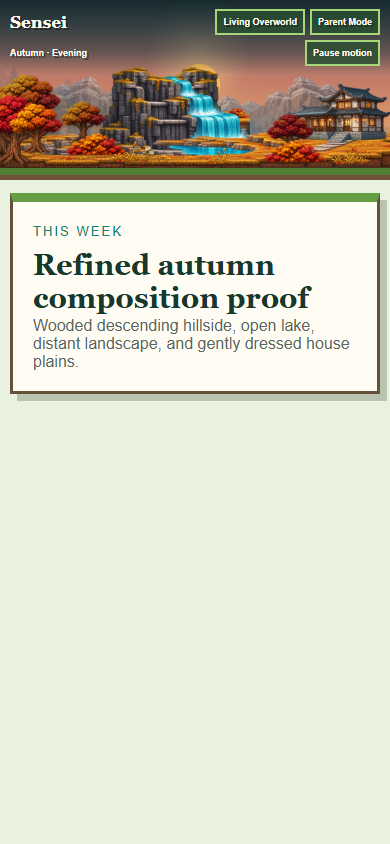
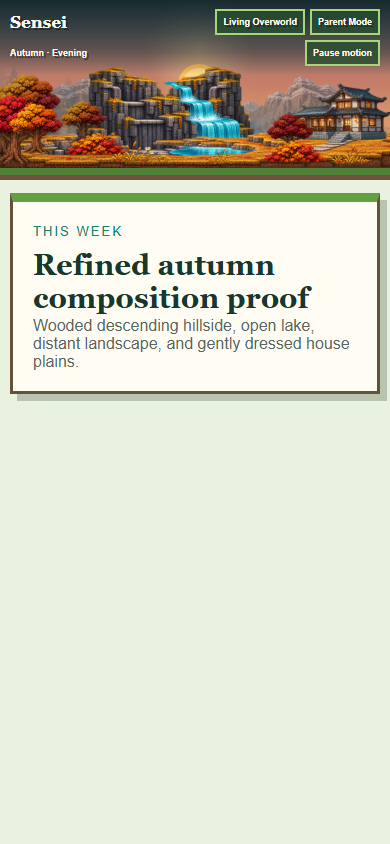
art: assemble final three-asset waterfall proof

Changed region(s): [[0.2154, 0.0616, 0.6462, 0.1848], [0.1231, 0.154, 0.1846, 0.1848]]

diff --git a/docs/prototypes/living-overworld-autumn-rich.html b/docs/prototypes/living-overworld-autumn-rich.html
@@ -19,15 +19,12 @@
     .forest { z-index: 3; left: 43%; bottom: -4px; width: 1260px; translate: -50%; opacity: .5; filter: saturate(.72) brightness(.75); }
     .ground-band { position: absolute; z-index: 3; left: 0; right: 0; bottom: 0; height: 38px; background: linear-gradient(#896329 0 18%, #6f4d2a 19% 34%, #4c351f 35%); }
     .hillside { z-index: 4; left: calc(50% - 1260px); bottom: -12px; width: 920px; }
-    .lake-extension { z-index: 5; bottom: -2px; width: 650px; clip-path: inset(0 0 0 42%); }
-    .lake-extension.bridge { left: calc(50% - 680px); }
-    .lake-extension.main { left: calc(50% - 310px); }
     .waterfall-system { position: absolute; z-index: 6; left: calc(50% - 610px); bottom: -2px; width: 650px; aspect-ratio: 2172 / 724; pointer-events: none; }
     .waterfall-system img { position: absolute; inset: 0; width: 100%; height: 100%; object-fit: contain; }
     .waterfall-system .outcrop { z-index: 1; }
-    .waterfall-system .outcrop.left { transform: translateX(-25%) scaleX(-1); }
-    .waterfall-system .outcrop.right { transform: translateX(25%); }
-    .waterfall-system .water { z-index: 2; transform: translateX(42%); clip-path: inset(0 65% 0 0); }
+    .waterfall-system .outcrop.left { transform: translateX(-18%) scaleX(-1); }
+    .waterfall-system .outcrop.right { transform: translateX(18%); }
+    .waterfall-system .water { z-index: 2; transform: translate(42%, 5%); }
     .meadow { z-index: 6; bottom: -20px; width: 1100px; }
     .meadow.left { right: calc(50% + 500px); }
     .meadow.right { left: calc(50% + 500px); transform: scaleX(-1); }
@@ -41,8 +38,6 @@
     @media (min-width: 701px) and (max-width: 1300px) {
       .hillside { left: -300px; }
       .waterfall-system { left: 0; }
-      .lake-extension.bridge { left: -20px; }
-      .lake-extension.main { left: 300px; }
     }
     .header { position: absolute; z-index: 20; inset: 0 0 auto; min-height: 86px; padding: 12px max(18px, calc((100vw - 1280px) / 2)); background: linear-gradient(180deg, rgba(9,29,27,.82), rgba(9,29,27,.38) 70%, transparent); text-shadow: 2px 2px rgba(12,26,20,.55); }
     .header-main, .header-status { display: flex; align-items: center; gap: 10px; }
@@ -64,9 +59,6 @@
       .forest { left: 42%; width: 500px; bottom: -1px; opacity: .34; }
       .ground-band { height: 20px; }
       .hillside { left: -220px; bottom: -3px; width: 470px; }
-      .lake-extension { bottom: 2px; width: 330px; }
-      .lake-extension.bridge { left: -20px; }
-      .lake-extension.main { left: 120px; }
       .waterfall-system { left: 0; bottom: 2px; width: 330px; }
       .meadow { display: none; }
       .ground { width: 435px; bottom: -5px; }
@@ -96,9 +88,7 @@
     <img class="layer forest" src="../../public/assets/living-overworld/autumn-rich-proof/distant-forest.png" alt="">
     <div class="ground-band"></div>
     <img class="layer hillside" src="../../public/assets/living-overworld/autumn-modular/terrain-left.png" alt="">
-    <img class="layer lake-extension bridge" src="../../public/assets/living-overworld/autumn-structural/water-connected.png" alt="">
-    <img class="layer lake-extension main" src="../../public/assets/living-overworld/autumn-structural/water-connected.png" alt="">
-    <div class="waterfall-system" data-geometry="inward-facing-outcrops-with-shared-apex">
+    <div class="waterfall-system" data-geometry="two-outcrops-one-complete-waterfall">
       <img class="outcrop left" src="../../public/assets/living-overworld/autumn-structural/waterfall-outcrop.png" alt="">
       <img class="outcrop right" src="../../public/assets/living-overworld/autumn-structural/waterfall-outcrop.png" alt="">
       <img class="water" src="../../public/assets/living-overworld/autumn-structural/water-connected.png" alt="">

diff --git a/docs/prototypes/living-overworld-waterfall-assembly.html b/docs/prototypes/living-overworld-waterfall-assembly.html
@@ -1,0 +1,47 @@
+<!doctype html>
+<html lang="en">
+<head>
+  <meta charset="utf-8">
+  <meta name="viewport" content="width=device-width, initial-scale=1">
+  <title>Living Overworld waterfall assembly proof</title>
+  <style>
+    * { box-sizing: border-box; }
+    html, body { margin: 0; min-height: 100%; background: #181818; }
+    .proof {
+      position: relative;
+      width: 1676px;
+      height: 593px;
+      overflow: hidden;
+      background-color: #242424;
+      background-image:
+        linear-gradient(45deg, #303030 25%, transparent 25%),
+        linear-gradient(-45deg, #303030 25%, transparent 25%),
+        linear-gradient(45deg, transparent 75%, #303030 75%),
+        linear-gradient(-45deg, transparent 75%, #303030 75%);
+      background-size: 20px 20px;
+      background-position: 0 0, 0 10px, 10px -10px, -10px 0;
+    }
+    .assembly {
+      position: absolute;
+      left: 68px;
+      top: 102px;
+      width: 1130px;
+      aspect-ratio: 2172 / 724;
+    }
+    .assembly img { position: absolute; inset: 0; width: 100%; height: 100%; object-fit: contain; }
+    .outcrop { z-index: 1; }
+    .outcrop.left { transform: translateX(-18%) scaleX(-1); }
+    .outcrop.right { transform: translateX(18%); }
+    .water { z-index: 2; transform: translate(42%, 5%); }
+  </style>
+</head>
+<body>
+  <main class="proof" aria-label="Isolated three-asset waterfall assembly proof">
+    <div class="assembly" data-assets="two-outcrops-one-waterfall">
+      <img class="outcrop left" src="../../public/assets/living-overworld/autumn-structural/waterfall-outcrop.png" alt="">
+      <img class="outcrop right" src="../../public/assets/living-overworld/autumn-structural/waterfall-outcrop.png" alt="">
+      <img class="water" src="../../public/assets/living-overworld/autumn-structural/water-connected.png" alt="">
+    </div>
+  </main>
+</body>
+</html>

diff --git a/docs/LIVING_OVERWORLD_AUTUMN_FINAL_WATERFALL_HANDOFF.md b/docs/LIVING_OVERWORLD_AUTUMN_FINAL_WATERFALL_HANDOFF.md
@@ -1,71 +1,63 @@
-# Living Overworld — Final Waterfall Correction
+# Living Overworld — Final Three-Asset Waterfall Assembly
 
 Status: isolated corrected prototype ready for Product Owner visual review. Runtime integration remains unauthorized.
 
 ## Locked composition
 
-The mountain groups, central valley, sun position, house, path, right-side plains, left woodland placements, banner dimensions, and responsive layout were not edited.
+The mountain groups, central valley, sun position, house, path, right-side plains, left woodland placements, banner dimensions, weather, creatures, and responsive layout were not edited.
 
-Pixel comparison confines rendered changes to the waterfall/lake assembly region:
+Only the proof's waterfall/outcrop assembly and its immediate shoreline layering changed.
 
-- Desktop changed bounds: `x 340–1016`, `y 84–285` in the 1920×900 proof.
-- Mobile changed bounds: `x 1–338`, `y 65–162` in the 390×844 proof.
+## Assembly result
 
-The sun and background implementation are unchanged; the desktop change bounds reach its left edge only because the new right outcrop peak occupies nearby foreground pixels. The house and right plains remain outside the changed region.
+The supplied proof of concept was treated as a layout reference made from existing transparent assets, not as new artwork.
 
-## Inward-facing apex result
+The corrected landmark uses exactly:
 
-The mirror-only experiment was rejected because it left the unmodified cascades suspended over the woodland while moving the supporting rock to the center.
+- Two complete instances of `waterfall-outcrop.png`.
+- One complete instance of `water-connected.png`.
+- No lake-extension instances.
 
-The accepted proof uses two copies of the existing outcrop, facing inward toward the waterfall source:
+All three assets share one coordinate frame and retain their original proportions:
 
-- The left outcrop is horizontally mirrored and shifted left by 25% of the shared frame.
-- The right outcrop retains the source orientation and is shifted right by 25%.
-- Their upper ledges converge at the center instead of placing both major peaks on the outside.
-- The waterfall source begins directly between those converging ledges, eliminating the floating-water appearance.
-- Three additional existing tree objects cover the exposed left rock face, making the two outcrops read as one wooded geological formation while leaving the waterfall corridor clear.
-- Preserves the waterfall asset's vertical position, scale, and upper elevation.
-- Uses a cascade-only presentation of the existing water asset, shifted 42% within the shared frame to the common apex.
-- Keeps the water in front of cliff faces while the authored ledges remain visible.
-- Uses two lake-only crops from the same existing water asset: a short bridge from the final foam and the original central lake overlap.
-- Adds no artwork and does not change any source image.
+- The left outcrop is mirrored and shifted left by 18% of the shared frame.
+- The right outcrop keeps its source orientation and is shifted right by 18%.
+- The complete waterfall is shifted right by 42% and down by 5%.
+- The paired inner ledges support the waterfall source and form the broad stepped silhouette shown by the Product Owner's composite.
+- The waterfall remains one intact image; its stages were not split, clipped, masked, or independently repositioned.
+- The existing foreground ground and shoreline naturally conceal the extended water tail while leaving the final splash connected to the lake.
 
-## Before and after evidence
+No source artwork was edited or generated.
 
-Desktop:
+## Evidence
 
-- [Before — 1920px](assets/screenshots/living-overworld-autumn-waterfall-before-desktop-1920.png)
-- [After — 1920px](assets/screenshots/living-overworld-autumn-waterfall-after-desktop-1920.png)
-
-Mobile:
-
-- [Before — 390px](assets/screenshots/living-overworld-autumn-waterfall-before-mobile-390.png)
-- [After — 390px](assets/screenshots/living-overworld-autumn-waterfall-after-mobile-390.png)
-
-Detail:
-
-- [Final waterfall close-up](assets/screenshots/living-overworld-autumn-rich-waterfall-closeup.png)
+- [Isolated three-asset assembly](assets/screenshots/living-overworld-waterfall-isolated-assembly.png)
+- [Desktop scene — 1920px](assets/screenshots/living-overworld-autumn-rich-desktop-1920.png)
+- [Mobile scene — 390px](assets/screenshots/living-overworld-autumn-rich-mobile.png)
+- [Shoreline and waterfall close-up](assets/screenshots/living-overworld-autumn-rich-waterfall-closeup.png)
+- [Desktop check — 1100px](assets/screenshots/living-overworld-autumn-rich-desktop-1100.png)
+- [Ultrawide check — 32:9](assets/screenshots/living-overworld-autumn-rich-ultrawide-32x9.png)
 
 ## Focused verification
 
-The proof capture validates at 390px, 1100px, 1920px, and 32:9:
+The isolated proof verifies that exactly two outcrop images and one complete waterfall image load without clipping.
 
-- The left outcrop is mirrored and the right outcrop remains unmirrored.
+The landscape proof passes at 390px, 1100px, 1920px, and 2560×720:
+
+- Exactly two outcrop instances and one waterfall instance are present.
+- The left outcrop is mirrored; the right remains unmirrored.
 - Both outcrops retain identical dimensions, vertical anchors, and scale.
-- Their horizontal separation is exactly 50% of one outcrop frame, placing their peaks inward.
-- The cascade layer retains the same dimensions and vertical anchor as the rock layer.
-- The expected 42% shared-apex cascade alignment is applied.
-- The upper waterfall elevation is unchanged.
-- All assets load.
-- Visible environmental-object bases remain within the scenic frame.
-- No tree bases occupy the open-lake zone.
-- Celestial centering, scene height, and horizontal-overflow checks still pass.
-- No browser console or page errors occur.
+- The authored −18%, +18%, +42%, and +5% placements are preserved.
+- No redundant lake-extension layer remains.
+- All assets load and no browser or console errors occur.
+- Environmental-object bases remain within the scenic frame.
+- No tree bases occupy the protected open-lake zone.
+- Celestial centering, controlled scene height, and horizontal-overflow checks pass.
 
 ## Limitation
 
-The correction uses clipped presentations of one existing composite water asset because new artwork was prohibited. The result is visually connected and deterministic, but future runtime integration must preserve the exact clipping and layering rules.
+The complete water asset extends farther right than the visible central lake. In the scene proof this excess is hidden by the existing foreground shoreline rather than by clipping or a duplicate water plane. The exact concealment must be preserved if this composition is later authorized for runtime integration.
 
 ## Continuation point
 
-Await Product Owner visual acceptance. Do not modify other scenery. If approved, a separately authorized runtime-integration task can transfer only this waterfall/outcrop presentation into the Living Overworld component and run the full application regression suite.
+Await Product Owner visual acceptance. If approved, a separately authorized integration task can transfer only this three-asset geometry and shoreline ordering into the Living Overworld runtime, followed by full application regression tests.
